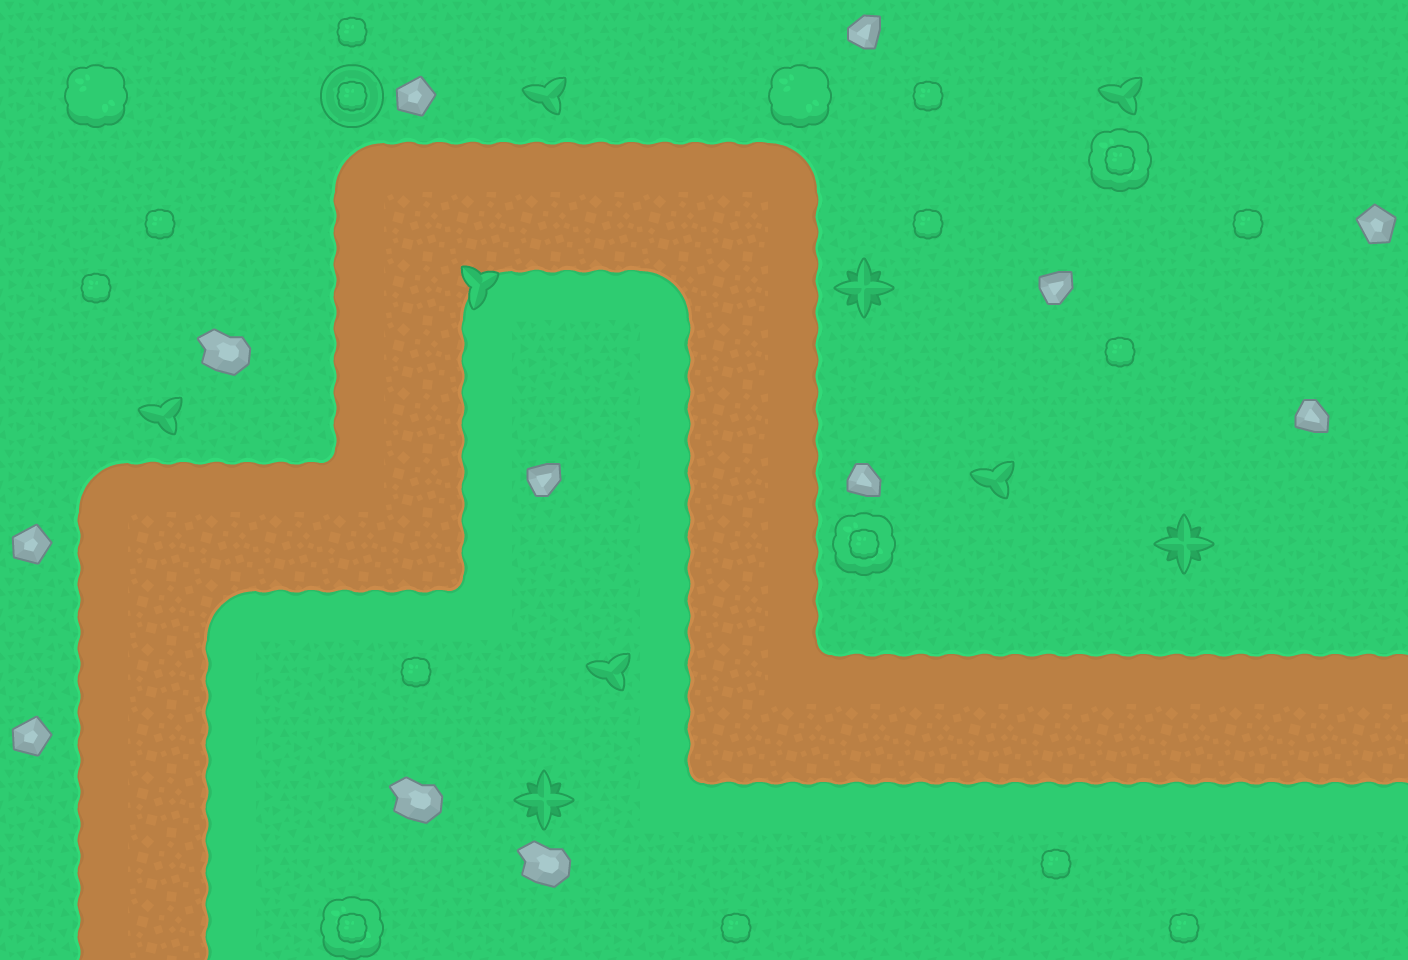
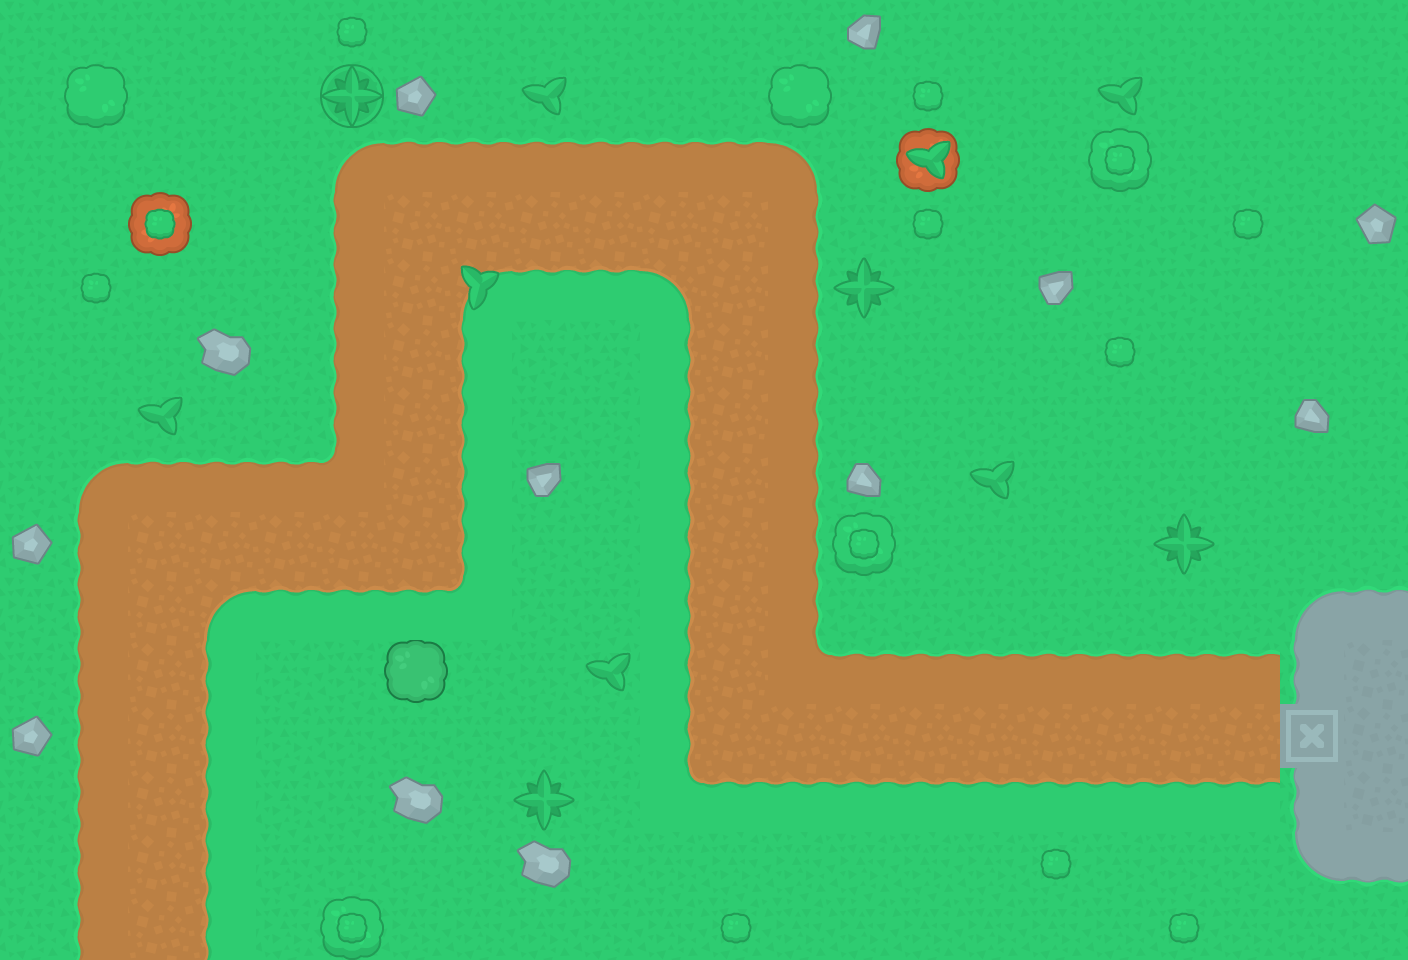
-New enemy types

diff --git a/src/game/GameField.java b/src/game/GameField.java
@@ -2,8 +2,7 @@ package game;
 
 import game.entity.Hill;
 import game.entity.bullet.Bullet;
-import game.entity.enemy.Enemy;
-import game.entity.enemy.NormalEnemy;
+import game.entity.enemy.*;
 import game.entity.tower.Tower;
 import javafx.animation.*;
 import javafx.scene.Group;
@@ -63,9 +62,9 @@ public final class GameField {
             RotateTransition rotate0 = new RotateTransition(Duration.ONE, imageView);
             rotate0.setToAngle(-90);
 //            Path path = new Path();
-            MoveTo spawn1 = new MoveTo(2.5 * Config.TILE_SIZE, 15 * Config.TILE_SIZE);
+            MoveTo spawn1 = new MoveTo(2.5 * Config.TILE_SIZE, 15.2 * Config.TILE_SIZE);
             LineTo line1 = new LineTo(2.5 * Config.TILE_SIZE, 8.5 * Config.TILE_SIZE);
-            PathTransition path1 = new PathTransition(Duration.seconds(6.5 * Config.TILE_SIZE / speed), new Path(spawn1, line1), imageView);
+            PathTransition path1 = new PathTransition(Duration.seconds(6.7 * Config.TILE_SIZE / speed), new Path(spawn1, line1), imageView);
             RotateTransition rotate1 = new RotateTransition(Duration.ONE, imageView);
             rotate1.setToAngle(0);
 
@@ -111,15 +110,7 @@ public final class GameField {
 
     public void play() {
         store.handleMouseEvent(root, hills, towers);
-
-//        Font theFont = Font.font("Helvetica", FontWeight.BOLD, 50);
-//        gc.setFont(theFont);
-//        gc.setFill(Color.BLACK);
-//        gc.setLineWidth(1);
-//        gc.strokeText("Score: " + GameStage.score, 100, 100);
-
         createText();
-
         new AnimationTimer() {
             int NUMBER_OF_ENEMIES = 100;
 
@@ -171,10 +162,7 @@ public final class GameField {
             root.getChildren().remove(bullet.getImageView());
 
             if (enemy.isDead() && enemies.contains(enemy)) {
-                enemy.getImageView().setVisible(false);
-                enemies.remove(enemy);
-                root.getChildren().remove(enemy.getImageView());
-
+                remove(enemy);
                 //update money
                 GameStage.money += enemy.getReward();
             }
@@ -185,14 +173,26 @@ public final class GameField {
         shootTransition.play();
     }
 
+    private void remove(Enemy enemy) {
+        enemy.getImageView().setVisible(false);
+        enemies.remove(enemy);
+        root.getChildren().remove(enemy.getImageView());
+        enemy.setDead(true);
+    }
+
+    private Enemy generateEnemy() {
+        double x = Math.random();
+        if (x < 0.5) return new NormalEnemy();
+        if (x < 0.8) return new SmallerEnemy();
+        if (x < 0.95) return new TankerEnemy();
+        return new BossEnemy();
+    }
+
     private void spawnEnemy() {
-        Enemy enemy = new NormalEnemy();
+        Enemy enemy = generateEnemy();
         enemy.getTransition().setOnFinished(event -> {
             if (!enemy.isDead()) {
-                enemy.getImageView().setVisible(false);
-                enemies.remove(enemy);
-                root.getChildren().remove(enemy.getImageView());
-                enemy.setDead(true);
+                remove(enemy);
                 GameStage.health--;
             }
         });

diff --git a/src/game/Config.java b/src/game/Config.java
@@ -43,9 +43,10 @@ public final class Config {
     // sniper tower
     public static final Image SNIPER_TOWER_IMG = new Image("file:src/game/resources/assets/PNG/Default size/towerDefense_tile206.png");
     public static final int SNIPER_TOWER_PRICE = 20;
-    public static final int SNIPER_TOWER_DAMAGE = 600;
+    public static final int SNIPER_TOWER_DAMAGE = 500;
     public static final int SNIPER_TOWER_DELAY_TIME = (int) (SECOND * 2.5);
     public static final int SNIPER_TOWER_RANGE = 400;
+
     // machine gun tower
     public static final Image MACHINE_GUN_TOWER_IMG = new Image("file:src/game/resources/assets/PNG/Default size/towerDefense_tile250.png");
     public static final int MACHINE_GUN_TOWER_PRICE = 40;
@@ -59,11 +60,32 @@ public final class Config {
 
     // normal enemy
     public static final Image NORMAL_ENEMY_IMG = new Image("file:src/game/resources/assets/PNG/Default size/towerDefense_tile245.png");
-    //    public static final Image NORMAL_ENEMY_IMG = new Image("file:src/game/resources/assets/kenney_topdowntanksredux/PNG/Default size/tank_bigRed.png");
     public static final int NORMAL_ENEMY_SPEED = 100;
     public static final int NORMAL_ENEMY_HEALTH = 300;
-    public static final int NORMAL_ENEMY_ARMOR = 2;
+    public static final int NORMAL_ENEMY_ARMOR = 10;
     public static final int NORMAL_ENEMY_REWARD = 2;
+
+    // smaller enemy
+    public static final Image SMALLER_ENEMY_IMG = new Image("file:src/game/resources/assets/PNG/Default size/towerDefense_tile246.png");
+    public static final int SMALLER_ENEMY_SPEED = 180;
+    public static final int SMALLER_ENEMY_HEALTH = 150;
+    public static final int SMALLER_ENEMY_ARMOR = 5;
+    public static final int SMALLER_ENEMY_REWARD = 4;
+
+    // tanker enemy
+    public static final Image TANKER_ENEMY_IMG = new Image("file:src/game/resources/assets/PNG/Default size/towerDefense_tile269.png");
+    //    public static final Image TANKER_ENEMY_IMG = new Image("file:src/game/resources/assets/PNG/Default size/towerDefense_tile269.png");
+    public static final int TANKER_ENEMY_SPEED = 70;
+    public static final int TANKER_ENEMY_HEALTH = 500;
+    public static final int TANKER_ENEMY_ARMOR = 40;
+    public static final int TANKER_ENEMY_REWARD = 20;
+
+    // boss enemy
+    public static final Image BOSS_ENEMY_IMG = new Image("file:src/game/resources/assets/kenney_topdowntanksredux/PNG/Default size/tank_bigRed.png");
+    public static final int BOSS_ENEMY_SPEED = 60;
+    public static final int BOSS_ENEMY_HEALTH = 1000;
+    public static final int BOSS_ENEMY_ARMOR = 200;
+    public static final int BOSS_ENEMY_REWARD = 50;
 
     // ========================================================================================
     // HILL
@@ -74,5 +96,5 @@ public final class Config {
     // delay time of a tower when shooting in nanosecond
     public static final long SHOOTING_DELAY_TIME = SECOND;
     //delay time when spawning new enemy in nanosecond
-    public static final long SPAWN_DELAY_TIME = SECOND / 2;
+    public static final long SPAWN_DELAY_TIME = (long) (SECOND * 0.5);
 }

diff --git a/src/game/entity/enemy/SmallerEnemy.java b/src/game/entity/enemy/SmallerEnemy.java
@@ -1,0 +1,24 @@
+package game.entity.enemy;
+
+import game.Config;
+import game.GameField;
+import javafx.animation.Interpolator;
+import javafx.animation.SequentialTransition;
+import javafx.scene.image.ImageView;
+
+public class SmallerEnemy extends Enemy {
+    public SmallerEnemy() {
+        super(Config.SMALLER_ENEMY_SPEED, Config.SMALLER_ENEMY_HEALTH, Config.SMALLER_ENEMY_ARMOR, Config.SMALLER_ENEMY_REWARD);
+        try {
+            this.image = Config.SMALLER_ENEMY_IMG;
+            this.imageView = new ImageView(image);
+//            this.transition = new PathTransition(Duration.seconds((double) GameStage.getRoadLength() / this.getSpeed()), GameField.createPath(), this.imageView);
+            this.transition = new SequentialTransition(imageView, GameField.createTransition(imageView, getSpeed()));
+            this.transition.setInterpolator(Interpolator.LINEAR);
+
+            initImgViewPos();
+        } catch (Exception e) {
+            System.out.println("Error Loading Smaller Enemy Image:" + e.getMessage());
+        }
+    }
+}

diff --git a/src/game/entity/enemy/TankerEnemy.java b/src/game/entity/enemy/TankerEnemy.java
@@ -1,0 +1,24 @@
+package game.entity.enemy;
+
+import game.Config;
+import game.GameField;
+import javafx.animation.Interpolator;
+import javafx.animation.SequentialTransition;
+import javafx.scene.image.ImageView;
+
+public class TankerEnemy extends Enemy {
+    public TankerEnemy() {
+        super(Config.TANKER_ENEMY_SPEED, Config.TANKER_ENEMY_HEALTH, Config.TANKER_ENEMY_ARMOR, Config.TANKER_ENEMY_REWARD);
+        try {
+            this.image = Config.TANKER_ENEMY_IMG;
+            this.imageView = new ImageView(image);
+//            this.transition = new PathTransition(Duration.seconds((double) GameStage.getRoadLength() / this.getSpeed()), GameField.createPath(), this.imageView);
+            this.transition = new SequentialTransition(imageView, GameField.createTransition(imageView, getSpeed()));
+            this.transition.setInterpolator(Interpolator.LINEAR);
+
+            initImgViewPos();
+        } catch (Exception e) {
+            System.out.println("Error Loading Tanker Enemy Image:" + e.getMessage());
+        }
+    }
+}

diff --git a/src/game/entity/enemy/BossEnemy.java b/src/game/entity/enemy/BossEnemy.java
@@ -1,0 +1,24 @@
+package game.entity.enemy;
+
+import game.Config;
+import game.GameField;
+import javafx.animation.Interpolator;
+import javafx.animation.SequentialTransition;
+import javafx.scene.image.ImageView;
+
+public class BossEnemy extends Enemy {
+    public BossEnemy() {
+        super(Config.BOSS_ENEMY_SPEED, Config.BOSS_ENEMY_HEALTH, Config.BOSS_ENEMY_ARMOR, Config.BOSS_ENEMY_REWARD);
+        try {
+            this.image = Config.BOSS_ENEMY_IMG;
+            this.imageView = new ImageView(image);
+//            this.transition = new PathTransition(Duration.seconds((double) GameStage.getRoadLength() / this.getSpeed()), GameField.createPath(), this.imageView);
+            this.transition = new SequentialTransition(imageView, GameField.createTransition(imageView, getSpeed()));
+            this.transition.setInterpolator(Interpolator.LINEAR);
+
+            initImgViewPos();
+        } catch (Exception e) {
+            System.out.println("Error Loading Boss Enemy Image:" + e.getMessage());
+        }
+    }
+}

diff --git a/src/game/Main.java b/src/game/Main.java
@@ -3,10 +3,8 @@ package game;
 import javafx.application.Application;
 import javafx.fxml.FXMLLoader;
 import javafx.scene.Group;
-import javafx.scene.Parent;
 import javafx.scene.Scene;
 import javafx.scene.canvas.Canvas;
-import javafx.scene.canvas.GraphicsContext;
 import javafx.scene.layout.AnchorPane;
 import javafx.stage.Stage;
 import javafx.scene.control.Button;
